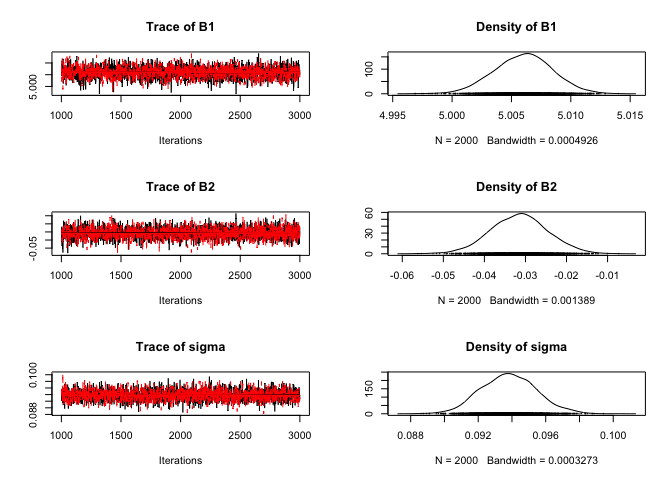
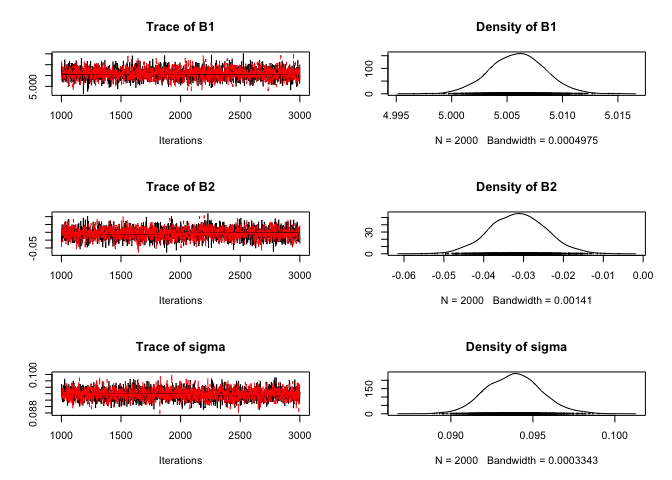
Modified model declarations to show up in the .MD file

diff --git a/Vaporfly.md b/Vaporfly.md
@@ -63,58 +63,7 @@ final = cbind(final, to.dummy(v=final$marathon, prefix = "marathon"))
 
 # Visualizations
 
-``` r
-ggplot(data=final, mapping=aes(x=time_minutes))+
-  labs(x="Time in Minutes", title = "FIGURE 1: Histogram of Time(min) for all runners")+
-  geom_histogram(bins=75, fill="red", col="black")
-```
-
-![](Vaporfly_files/figure-gfm/unnamed-chunk-4-1.png)<!-- -->
-
-``` r
-ggplot(data=final%>%filter(sex==F), mapping=aes(x=log(time_minutes)))+
-  labs(title="FIGURE 2: Distribution of Men's log time", x="Men's Log minutes")+
-  geom_histogram(bins=85, fill="blue", col="black")
-```
-
-![](Vaporfly_files/figure-gfm/unnamed-chunk-4-2.png)<!-- -->
-
-``` r
-ggplot(data=final%>%filter(sex==T), mapping=aes(x=log(time_minutes)))+
-  labs(title="FIGURE 3: Distribution of Women's log time", x="Women's Log minutes")+
-  geom_histogram(bins=85, fill="pink", col="black")
-```
-
-![](Vaporfly_files/figure-gfm/unnamed-chunk-4-3.png)<!-- -->
-
-``` r
-ggplot(data=final, mapping=aes(x=log(time_minutes)), fill=as.factor(sex))+
-  labs(title="FIGURE 2: Histogram of log(time)", x="log(Time)")+
-  geom_histogram(bins=75, col="black")
-```
-
-![](Vaporfly_files/figure-gfm/unnamed-chunk-4-4.png)<!-- -->
-
-``` r
-ggplot(data=final, mapping=aes(x=time_minutes, fill=vaporfly))+
-  geom_histogram(bins = 60)
-```
-
-![](Vaporfly_files/figure-gfm/unnamed-chunk-4-5.png)<!-- -->
-
-``` r
-ggplot(data=final%>%filter(sex==0), mapping=aes(x=time_minutes, fill=vaporfly))+
-  geom_histogram(bins = 60)
-```
-
-![](Vaporfly_files/figure-gfm/unnamed-chunk-4-6.png)<!-- -->
-
-``` r
-ggplot(data=final%>%filter(sex==1), mapping=aes(x=time_minutes, fill=vaporfly))+
-  geom_histogram(bins = 60)
-```
-
-![](Vaporfly_files/figure-gfm/unnamed-chunk-4-7.png)<!-- -->
+![](Vaporfly_files/figure-gfm/unnamed-chunk-4-1.png)<!-- -->![](Vaporfly_files/figure-gfm/unnamed-chunk-4-2.png)<!-- -->![](Vaporfly_files/figure-gfm/unnamed-chunk-4-3.png)<!-- -->![](Vaporfly_files/figure-gfm/unnamed-chunk-4-4.png)<!-- -->![](Vaporfly_files/figure-gfm/unnamed-chunk-4-5.png)<!-- -->![](Vaporfly_files/figure-gfm/unnamed-chunk-4-6.png)<!-- -->![](Vaporfly_files/figure-gfm/unnamed-chunk-4-7.png)<!-- -->
 
 # Methods
 
@@ -158,6 +107,22 @@ n = length(logy)
 # Models Under Consideration
 
 ## Model 1
+
+  
+![
+log(Y\_i) \\sim N(\\mu\_i, \\sigma^2)\\\\
+\\mu\_i = B\_0 + B\_1V\_i\\\\
+V\_i \\in {0,1}: Vaporfly\_i\\\\
+B\_0, B\_1 \\sim N(0, (\\sqrt{10})^2)\\\\
+\\sigma^2 \\sim InvGamma(0.1, 1)
+](https://latex.codecogs.com/png.latex?%0Alog%28Y_i%29%20%5Csim%20N%28%5Cmu_i%2C%20%5Csigma%5E2%29%5C%5C%0A%5Cmu_i%20%3D%20B_0%20%2B%20B_1V_i%5C%5C%0AV_i%20%5Cin%20%7B0%2C1%7D%3A%20Vaporfly_i%5C%5C%0AB_0%2C%20B_1%20%5Csim%20N%280%2C%20%28%5Csqrt%7B10%7D%29%5E2%29%5C%5C%0A%5Csigma%5E2%20%5Csim%20InvGamma%280.1%2C%201%29%0A
+"
+log(Y_i) \\sim N(\\mu_i, \\sigma^2)\\\\
+\\mu_i = B_0 + B_1V_i\\\\
+V_i \\in {0,1}: Vaporfly_i\\\\
+B_0, B_1 \\sim N(0, (\\sqrt{10})^2)\\\\
+\\sigma^2 \\sim InvGamma(0.1, 1)
+")  
 
 This model suggests that the only contributing factor to a runner’s time
 is the binary `vaporfly` variable:
@@ -205,25 +170,25 @@ dic_1 = dic.samples(model, n.iter=2000, progress.bar="none")
     ##    plus standard error of the mean:
     ## 
     ##           Mean       SD  Naive SE Time-series SE
-    ## B1     5.00600 0.002444 3.864e-05      4.358e-05
-    ## B2    -0.03149 0.006954 1.100e-04      1.215e-04
-    ## sigma  0.09381 0.001622 2.564e-05      2.519e-05
+    ## B1     5.00594 0.002465 3.898e-05      4.294e-05
+    ## B2    -0.03146 0.006990 1.105e-04      1.282e-04
+    ## sigma  0.09383 0.001657 2.619e-05      2.619e-05
     ## 
     ## 2. Quantiles for each variable:
     ## 
     ##           2.5%      25%      50%      75%    97.5%
-    ## B1     5.00119  5.00438  5.00607  5.00765  5.01071
-    ## B2    -0.04515 -0.03615 -0.03136 -0.02692 -0.01788
-    ## sigma  0.09072  0.09267  0.09382  0.09492  0.09714
+    ## B1     5.00106  5.00427  5.00598  5.00758  5.01073
+    ## B2    -0.04523 -0.03631 -0.03144 -0.02674 -0.01746
+    ## sigma  0.09070  0.09266  0.09384  0.09493  0.09720
 
 ![](Vaporfly_files/figure-gfm/unnamed-chunk-10-1.png)<!-- -->
 
     ## Potential scale reduction factors:
     ## 
     ##       Point est. Upper C.I.
-    ## B1             1       1.00
-    ## B2             1       1.01
-    ## sigma          1       1.00
+    ## B1             1          1
+    ## B2             1          1
+    ## sigma          1          1
     ## 
     ## Multivariate psrf
     ## 
@@ -235,6 +200,24 @@ more sophisticated models to attempt to characterize the relationship
 more thoroughly.
 
 ## Model 2
+
+  
+![
+log(Y\_i) \\sim N(\\mu\_i, \\sigma^2)\\\\
+\\mu\_i = B\_0+B\_1V\_i+B\_2S\_i\\\\
+V\_i \\in 0,1: Vaporfly\\\\
+S\_i \\in 0,1: Sex\\\\
+B\_0, B\_1, B\_2 \\sim N(0, (\\sqrt{10})^2)\\\\
+\\sigma^2 \\sim InvGamma(0.1, 1)\\\\
+](https://latex.codecogs.com/png.latex?%0Alog%28Y_i%29%20%5Csim%20N%28%5Cmu_i%2C%20%5Csigma%5E2%29%5C%5C%0A%5Cmu_i%20%3D%20B_0%2BB_1V_i%2BB_2S_i%5C%5C%0AV_i%20%5Cin%200%2C1%3A%20Vaporfly%5C%5C%0AS_i%20%5Cin%200%2C1%3A%20Sex%5C%5C%0AB_0%2C%20B_1%2C%20B_2%20%5Csim%20N%280%2C%20%28%5Csqrt%7B10%7D%29%5E2%29%5C%5C%0A%5Csigma%5E2%20%5Csim%20InvGamma%280.1%2C%201%29%5C%5C%0A
+"
+log(Y_i) \\sim N(\\mu_i, \\sigma^2)\\\\
+\\mu_i = B_0+B_1V_i+B_2S_i\\\\
+V_i \\in 0,1: Vaporfly\\\\
+S_i \\in 0,1: Sex\\\\
+B_0, B_1, B_2 \\sim N(0, (\\sqrt{10})^2)\\\\
+\\sigma^2 \\sim InvGamma(0.1, 1)\\\\
+")  
 
 ``` r
 X_mod = X%>%select(1, vaporfly, sex)%>%
@@ -279,19 +262,19 @@ summary(samples)
     ## 1. Empirical mean and standard deviation for each variable,
     ##    plus standard error of the mean:
     ## 
-    ##           Mean       SD  Naive SE Time-series SE
-    ## B[1]   4.93654 0.001915 2.472e-05      4.424e-05
-    ## B[2]  -0.01896 0.003890 5.023e-05      5.871e-05
-    ## B[3]   0.14106 0.002630 3.395e-05      5.711e-05
-    ## sigma  0.05234 0.000921 1.189e-05      1.218e-05
+    ##           Mean        SD  Naive SE Time-series SE
+    ## B[1]   4.93658 0.0018649 2.408e-05      4.142e-05
+    ## B[2]  -0.01897 0.0039110 5.049e-05      5.965e-05
+    ## B[3]   0.14103 0.0026250 3.389e-05      5.711e-05
+    ## sigma  0.05231 0.0009192 1.187e-05      1.187e-05
     ## 
     ## 2. Quantiles for each variable:
     ## 
-    ##           2.5%      25%      50%      75%    97.5%
-    ## B[1]   4.93273  4.93526  4.93659  4.93785  4.94023
-    ## B[2]  -0.02635 -0.02166 -0.01901 -0.01638 -0.01131
-    ## B[3]   0.13588  0.13932  0.14100  0.14281  0.14631
-    ## sigma  0.05056  0.05171  0.05233  0.05294  0.05416
+    ##           2.5%      25%      50%     75%    97.5%
+    ## B[1]   4.93296  4.93533  4.93655  4.9379  4.94027
+    ## B[2]  -0.02676 -0.02151 -0.01896 -0.0164 -0.01135
+    ## B[3]   0.13584  0.13926  0.14104  0.1428  0.14615
+    ## sigma  0.05058  0.05168  0.05228  0.0529  0.05419
 
 ``` r
 gelman.diag(samples)
@@ -300,10 +283,10 @@ gelman.diag(samples)
     ## Potential scale reduction factors:
     ## 
     ##       Point est. Upper C.I.
-    ## B[1]           1       1.01
-    ## B[2]           1       1.01
-    ## B[3]           1       1.00
-    ## sigma          1       1.00
+    ## B[1]           1          1
+    ## B[2]           1          1
+    ## B[3]           1          1
+    ## sigma          1          1
     ## 
     ## Multivariate psrf
     ## 
@@ -315,6 +298,24 @@ dic_2 = dic.samples(model, n.iter=3000, progress.bar="none")
 ```
 
 ## Model 3
+
+  
+![
+log(Y\_i) \\sim N(\\mu\_i, \\sigma^2)\\\\
+\\mu\_i = \\beta\_0+\\beta1V\_i+\\beta\_2S\_i+\\beta\_3S\_i\*V\_i\\\\
+V\_i \\in 0,1: Vaporfly\\\\
+S\_i \\in 0,1: Sex\\\\
+\\beta\_i \\sim N(0, 10^2)\\\\
+\\sigma^2 \\sim InvGamma(0.1, 1)\\\\
+](https://latex.codecogs.com/png.latex?%0Alog%28Y_i%29%20%5Csim%20N%28%5Cmu_i%2C%20%5Csigma%5E2%29%5C%5C%0A%5Cmu_i%20%3D%20%5Cbeta_0%2B%5Cbeta1V_i%2B%5Cbeta_2S_i%2B%5Cbeta_3S_i%2AV_i%5C%5C%0AV_i%20%5Cin%200%2C1%3A%20Vaporfly%5C%5C%0AS_i%20%5Cin%200%2C1%3A%20Sex%5C%5C%0A%5Cbeta_i%20%5Csim%20N%280%2C%2010%5E2%29%5C%5C%0A%5Csigma%5E2%20%5Csim%20InvGamma%280.1%2C%201%29%5C%5C%0A
+"
+log(Y_i) \\sim N(\\mu_i, \\sigma^2)\\\\
+\\mu_i = \\beta_0+\\beta1V_i+\\beta_2S_i+\\beta_3S_i*V_i\\\\
+V_i \\in 0,1: Vaporfly\\\\
+S_i \\in 0,1: Sex\\\\
+\\beta_i \\sim N(0, 10^2)\\\\
+\\sigma^2 \\sim InvGamma(0.1, 1)\\\\
+")  
 
 ``` r
 X_mod = X%>%select(1, vaporfly, sex)%>%
@@ -360,20 +361,20 @@ summary(samples)
     ##    plus standard error of the mean:
     ## 
     ##             Mean       SD  Naive SE Time-series SE
-    ## B[1]   4.9364441 0.002310 3.653e-05      6.784e-05
-    ## B[2]  -0.0185867 0.006200 9.803e-05      1.781e-04
-    ## B[3]   0.1412012 0.003273 5.175e-05      9.708e-05
-    ## C     -0.0004753 0.009594 1.517e-04      2.753e-04
-    ## sigma  0.0620439 0.001097 1.734e-05      1.725e-05
+    ## B[1]   4.9364731 0.002278 3.602e-05      6.905e-05
+    ## B[2]  -0.0188373 0.006081 9.615e-05      1.677e-04
+    ## B[3]   0.1411324 0.003269 5.168e-05      9.786e-05
+    ## C     -0.0001531 0.009563 1.512e-04      2.602e-04
+    ## sigma  0.0620780 0.001094 1.731e-05      1.729e-05
     ## 
     ## 2. Quantiles for each variable:
     ## 
-    ##           2.5%       25%        50%       75%     97.5%
-    ## B[1]   4.93200  4.934857  4.9364615  4.938039  4.941062
-    ## B[2]  -0.03072 -0.022773 -0.0185376 -0.014460 -0.006519
-    ## B[3]   0.13465  0.139043  0.1412339  0.143399  0.147464
-    ## C     -0.01869 -0.007046 -0.0006164  0.005926  0.018690
-    ## sigma  0.05991  0.061277  0.0620481  0.062796  0.064157
+    ##           2.5%       25%        50%       75%    97.5%
+    ## B[1]   4.93208  4.934966  4.9364814  4.938034  4.94081
+    ## B[2]  -0.03103 -0.022948 -0.0187429 -0.014728 -0.00702
+    ## B[3]   0.13472  0.138960  0.1411193  0.143309  0.14764
+    ## C     -0.01849 -0.006806 -0.0001725  0.006257  0.01910
+    ## sigma  0.06006  0.061324  0.0620256  0.062839  0.06423
 
 ``` r
 gelman.diag(samples)
@@ -382,11 +383,11 @@ gelman.diag(samples)
     ## Potential scale reduction factors:
     ## 
     ##       Point est. Upper C.I.
-    ## B[1]           1          1
-    ## B[2]           1          1
-    ## B[3]           1          1
-    ## C              1          1
-    ## sigma          1          1
+    ## B[1]           1       1.00
+    ## B[2]           1       1.00
+    ## B[3]           1       1.01
+    ## C              1       1.00
+    ## sigma          1       1.02
     ## 
     ## Multivariate psrf
     ## 
@@ -397,6 +398,30 @@ dic_3 = dic.samples(model, n.iter=2000, progress.bar="none")
 ```
 
 ## Model 4
+
+  
+![
+log(Y\_i) \\sim N(\\mu\_i, \\sigma^2)\\\\
+\\mu\_i = \\beta\_0+\\beta1V\_i+\\beta\_2S\_i+\\beta\_3S\_i\*V\_i +
+\\alpha\_i\\\\
+V\_i \\in 0,1: Vaporfly\\\\
+S\_i \\in 0,1: Sex\\\\
+\\alpha\_i: effect \\space of \\space maraton \\space of \\space
+runner\_i
+\\beta\_i \\sim N(0, 10^2)\\\\
+\\alpha\_i \\sim N(0, 10^2)
+\\sigma^2 \\sim InvGamma(0.1, 1)\\\\
+](https://latex.codecogs.com/png.latex?%0Alog%28Y_i%29%20%5Csim%20N%28%5Cmu_i%2C%20%5Csigma%5E2%29%5C%5C%0A%5Cmu_i%20%3D%20%5Cbeta_0%2B%5Cbeta1V_i%2B%5Cbeta_2S_i%2B%5Cbeta_3S_i%2AV_i%20%2B%20%5Calpha_i%5C%5C%0AV_i%20%5Cin%200%2C1%3A%20Vaporfly%5C%5C%0AS_i%20%5Cin%200%2C1%3A%20Sex%5C%5C%0A%5Calpha_i%3A%20effect%20%5Cspace%20of%20%5Cspace%20maraton%20%5Cspace%20of%20%5Cspace%20runner_i%0A%5Cbeta_i%20%5Csim%20N%280%2C%2010%5E2%29%5C%5C%0A%5Calpha_i%20%5Csim%20N%280%2C%2010%5E2%29%0A%5Csigma%5E2%20%5Csim%20InvGamma%280.1%2C%201%29%5C%5C%0A
+"
+log(Y_i) \\sim N(\\mu_i, \\sigma^2)\\\\
+\\mu_i = \\beta_0+\\beta1V_i+\\beta_2S_i+\\beta_3S_i*V_i + \\alpha_i\\\\
+V_i \\in 0,1: Vaporfly\\\\
+S_i \\in 0,1: Sex\\\\
+\\alpha_i: effect \\space of \\space maraton \\space of \\space runner_i
+\\beta_i \\sim N(0, 10^2)\\\\
+\\alpha_i \\sim N(0, 10^2)
+\\sigma^2 \\sim InvGamma(0.1, 1)\\\\
+")  
 
 ``` r
 X_mod = X%>%select(1, vaporfly, sex, marathon)%>%
@@ -438,37 +463,37 @@ gelman.diag(samples)
     ## Potential scale reduction factors:
     ## 
     ##           Point est. Upper C.I.
-    ## B0              2.26       4.49
+    ## B0              1.22       1.75
     ## B1              1.00       1.00
     ## B2              1.00       1.00
-    ## alpha[1]        2.26       4.48
-    ## alpha[2]        2.26       4.48
-    ## alpha[3]        2.26       4.48
-    ## alpha[4]        2.21       4.36
-    ## alpha[5]        2.18       4.27
-    ## alpha[6]        2.26       4.48
-    ## alpha[7]        2.25       4.47
-    ## alpha[8]        2.24       4.44
-    ## alpha[9]        2.25       4.46
-    ## alpha[10]       1.74       3.09
-    ## alpha[11]       2.11       4.08
-    ## alpha[12]       2.24       4.44
-    ## alpha[13]       2.26       4.48
-    ## alpha[14]       2.25       4.46
-    ## alpha[15]       2.24       4.44
-    ## alpha[16]       2.10       4.06
-    ## alpha[17]       2.21       4.36
-    ## alpha[18]       2.25       4.46
-    ## alpha[19]       2.25       4.45
-    ## alpha[20]       2.22       4.37
-    ## alpha[21]       2.22       4.37
-    ## alpha[22]       1.93       3.60
-    ## alpha[23]       2.25       4.46
+    ## alpha[1]        1.22       1.74
+    ## alpha[2]        1.22       1.74
+    ## alpha[3]        1.22       1.74
+    ## alpha[4]        1.21       1.71
+    ## alpha[5]        1.20       1.69
+    ## alpha[6]        1.22       1.74
+    ## alpha[7]        1.22       1.74
+    ## alpha[8]        1.22       1.74
+    ## alpha[9]        1.22       1.74
+    ## alpha[10]       1.12       1.43
+    ## alpha[11]       1.19       1.66
+    ## alpha[12]       1.22       1.74
+    ## alpha[13]       1.22       1.74
+    ## alpha[14]       1.22       1.74
+    ## alpha[15]       1.22       1.73
+    ## alpha[16]       1.19       1.64
+    ## alpha[17]       1.21       1.71
+    ## alpha[18]       1.22       1.74
+    ## alpha[19]       1.22       1.74
+    ## alpha[20]       1.21       1.72
+    ## alpha[21]       1.21       1.71
+    ## alpha[22]       1.15       1.54
+    ## alpha[23]       1.22       1.74
     ## sigma           1.00       1.00
     ## 
     ## Multivariate psrf
     ## 
-    ## 1.57
+    ## 1.1
 
 ``` r
 #Compute DIC
@@ -479,7 +504,8 @@ This model suggests that there is no significant difference between
 marathon courses since the effective sample sizes are so small even
 after 50,000 iterations of MCMC. From this, I conclude that the marathon
 effects are constant and are “encoded” in the constant intercept
-\(\beta_0\). For further justification:
+![\\beta\_0](https://latex.codecogs.com/png.latex?%5Cbeta_0 "\\beta_0").
+For further justification:
 
 ``` r
 alphas = apply(samples[[1]][ , 4:26],
@@ -501,9 +527,12 @@ alphas %>%
 
 ![](Vaporfly_files/figure-gfm/unnamed-chunk-14-1.png)<!-- -->
 
-Clearly, all of the \(\alpha\) effects behave similarly and produced
-relatively similar estimates and Posterior Distributions. Because of
-this and the low effective sample size of the \(\beta_0\) in this model,
-I propose the removal of the Marathon effect term in the model.
+Clearly, all of the
+![\\alpha](https://latex.codecogs.com/png.latex?%5Calpha "\\alpha")
+effects behave similarly and produced relatively similar estimates and
+Posterior Distributions. Because of this and the low effective sample
+size of the ![\\beta\_0](https://latex.codecogs.com/png.latex?%5Cbeta_0
+"\\beta_0") in this model, I propose the removal of the Marathon effect
+term in the model.
 
 ## Model 5
